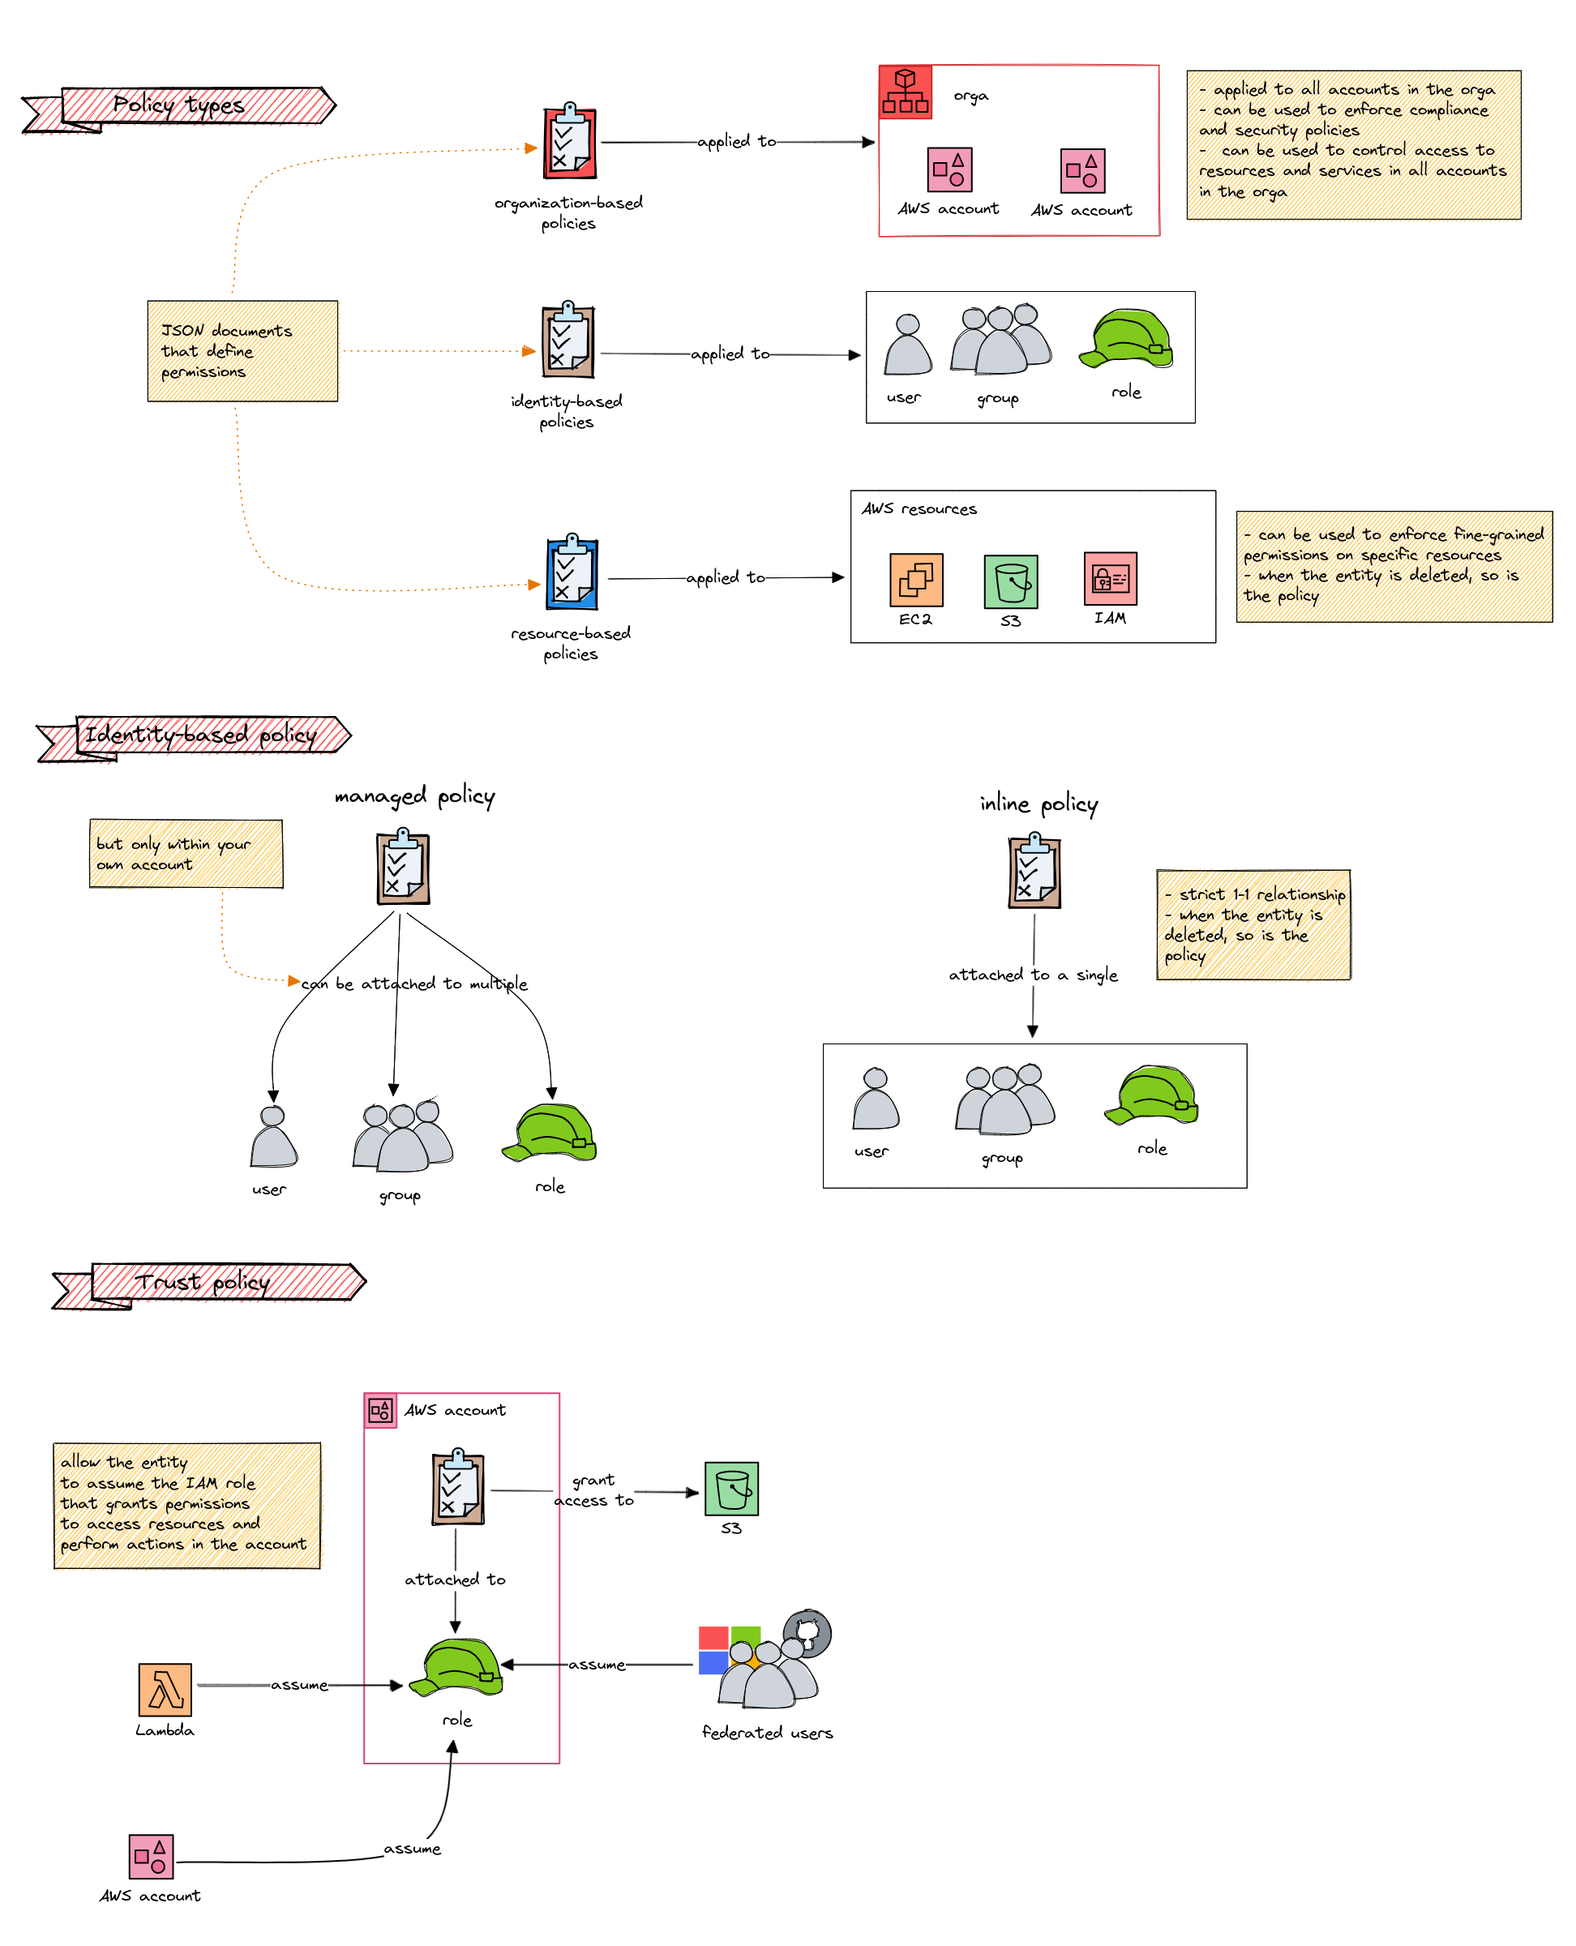
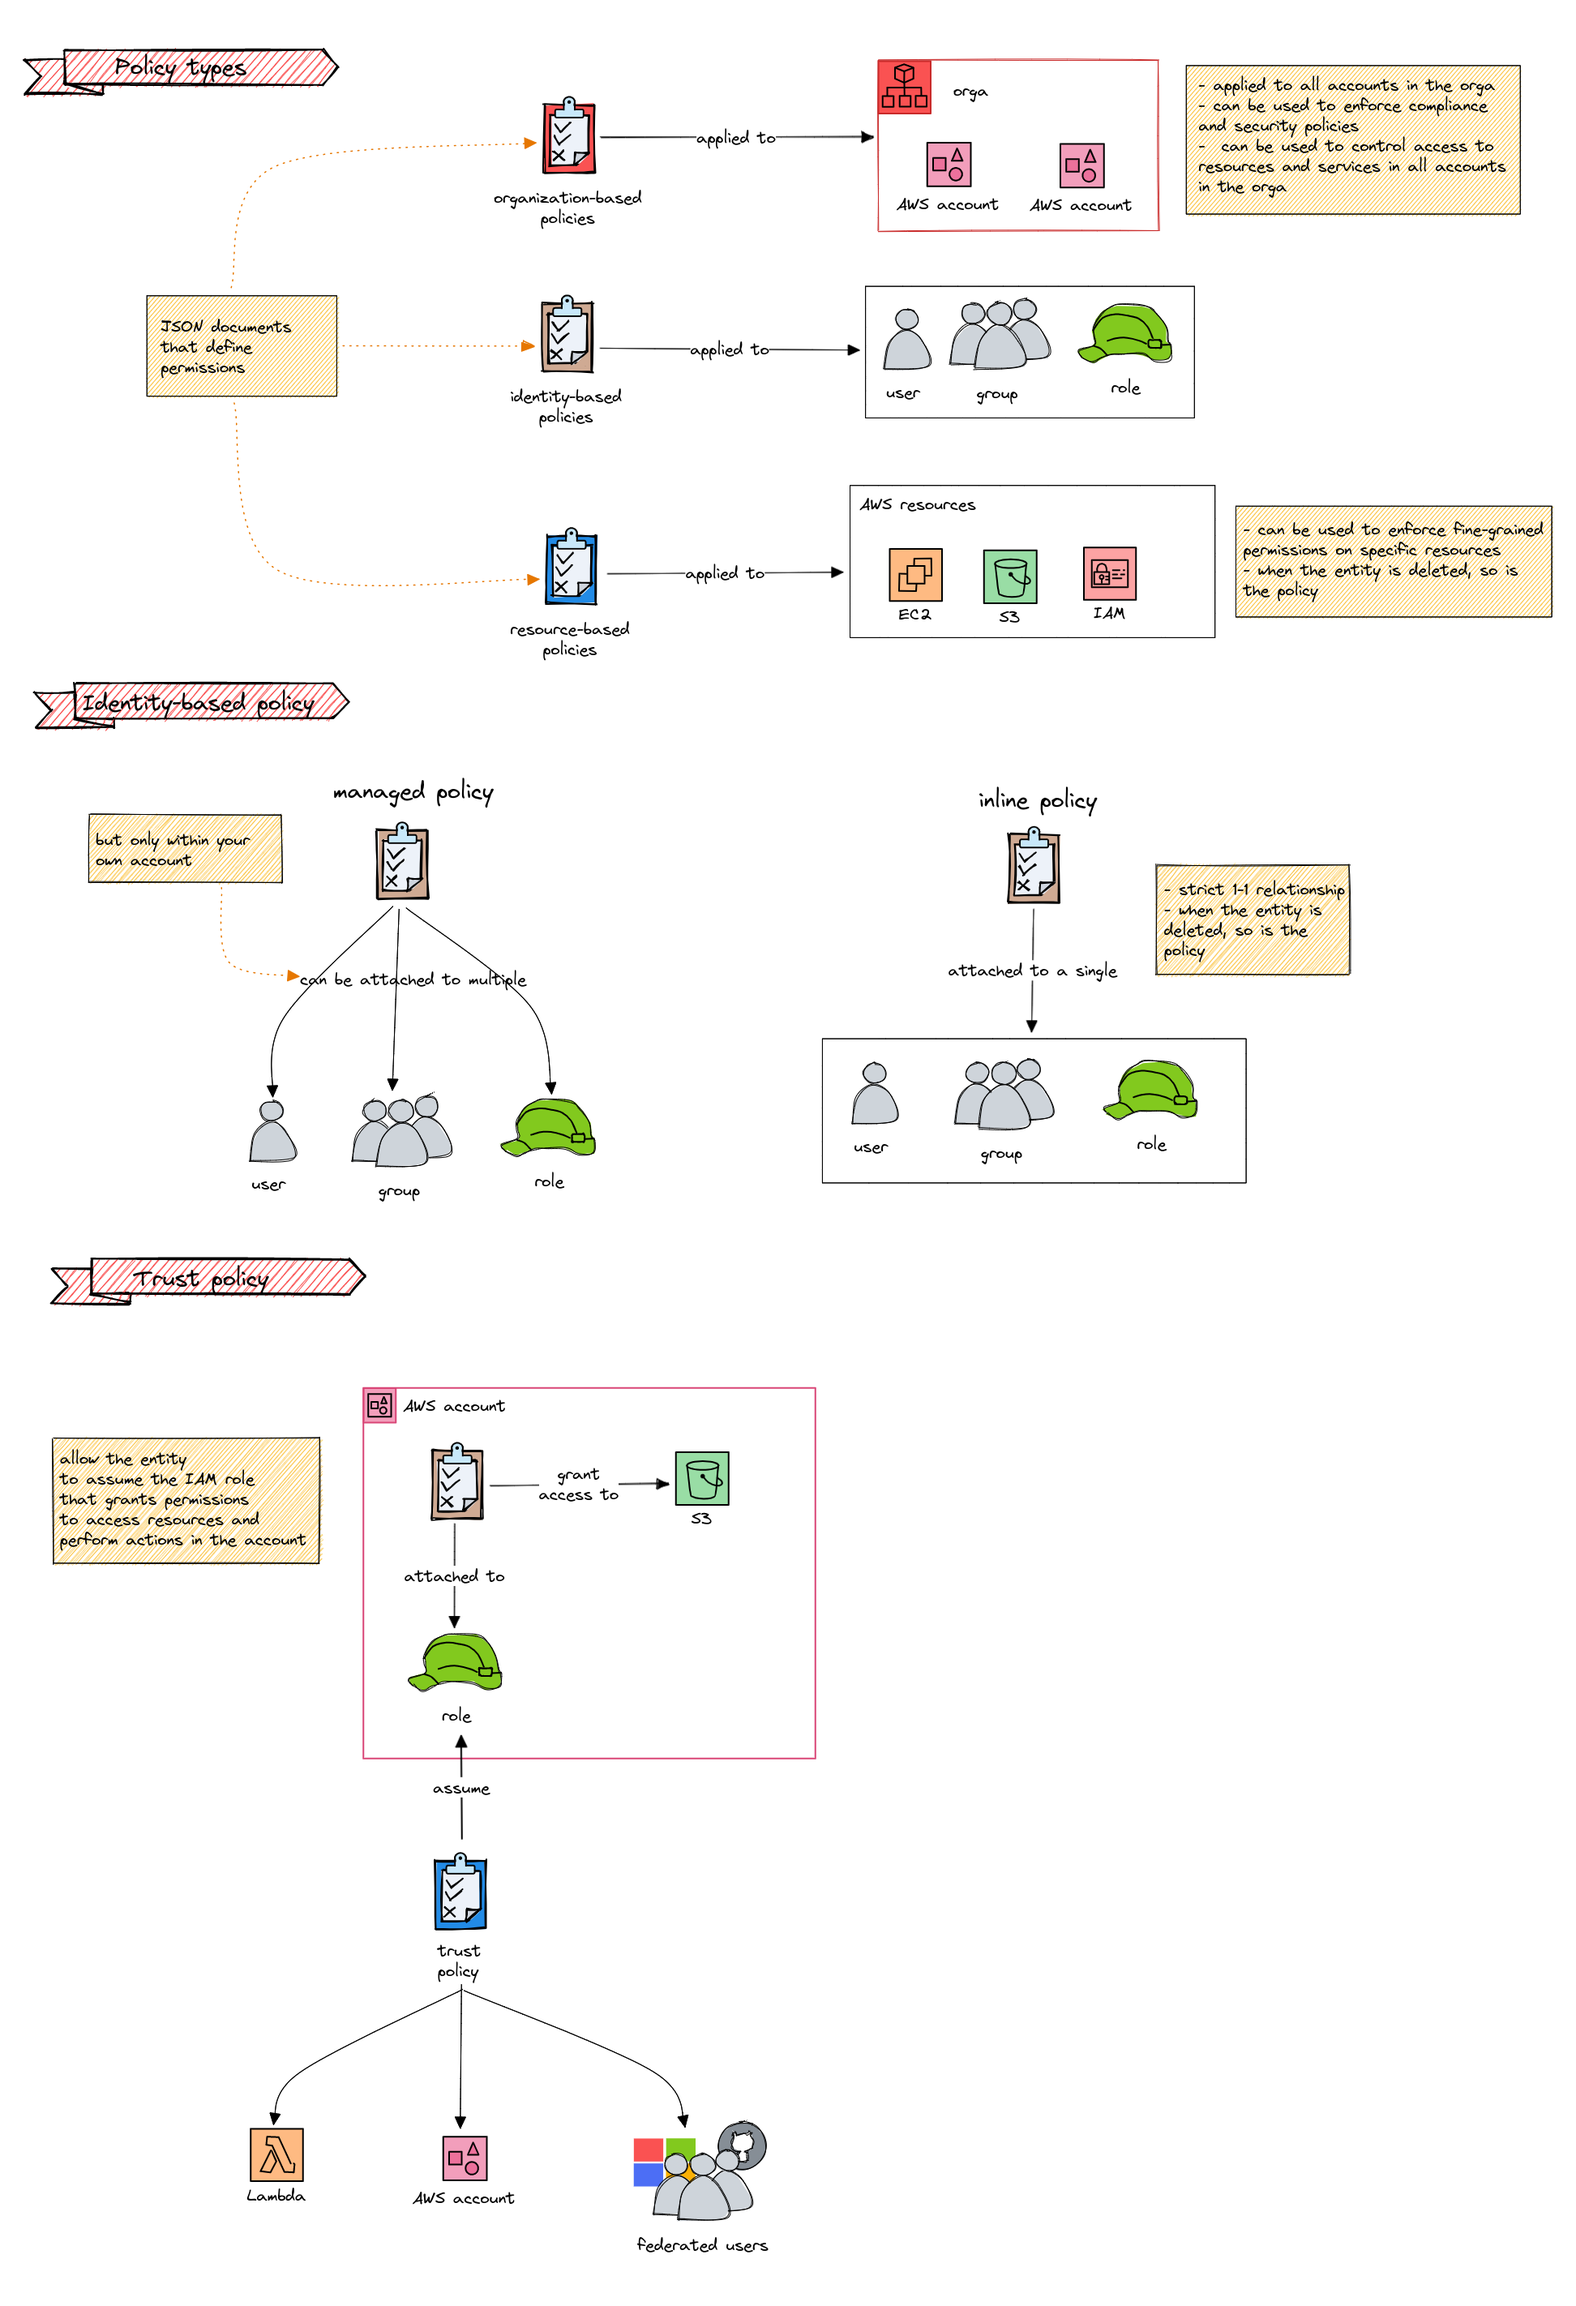
post: update aws iam images

diff --git a/content/resources.md b/content/resources.md
@@ -209,12 +209,11 @@ A curated collection of awesome tools, resources, libraries and softwares I foun
 - [Developer excuses](http://developerexcuses.com/): some excuses a developer might say
 - [Windows 93](https://www.windows93.net): web emulation of Windows 93 (or some of it)
 - [PCE.js](https://jamesfriend.com.au/pce-js/): web emulation of classic computers
-- [CAAS](https://cataas.com/): Cat As A Service is a REST API to spread peace & love (or not) with
-  cats
+- [CAAS](https://cataas.com/): Cat As A Service is a REST API to spread peace & love (or not) with cats
 - [procatinator](https://procatinator.com/): random cat gifs with music
 - [The useless web](https://theuselessweb.com/): redirects you to an useless website
 - [Geek typer](http://geektyper.com): website to simulate what a "Hacker" do in movies
-- [O'RLY cover generator](https://orly.nanmu.me/): generate "O'Reilly" Parody book cover (useful in
+- [O'RLY cover generator](https://orly.nanmu.me/): generate "O'Reilly" Parody book cover (useful for presentations)
 - [Monitoror](https://monitoror.com/): unified monitoring wallboard
 - [GifCap](https://gifcap.dev): online animated GIFs creator from a screen recording
 - [Remote tools](https://www.remote.tools/): top remote tech products

diff --git a/content/posts/2023/2023-01-06-aws_iam_and_orga.md b/content/posts/2023/2023-01-06-aws_iam_and_orga.md
@@ -8,6 +8,8 @@ toc:
   enable: true
 ---
 
+{{< figure class="center" src="/images/2023-01-06/aws_iam.png" alt="AWS IAM" >}}
+
 <!--more-->
 
 ## AWS IAM user
@@ -23,6 +25,8 @@ toc:
 {{< figure class="center" src="/images/2023-01-06/aws_organization.png" alt="AWS organization" >}}
 
 ## AWS policy
+
+{{< figure class="center" src="/images/2023-01-06/aws_policy_category.png" alt="AWS policy categorye" >}}
 
 {{< figure class="center" src="/images/2023-01-06/aws_policy.png" alt="AWS policy" >}}
 
